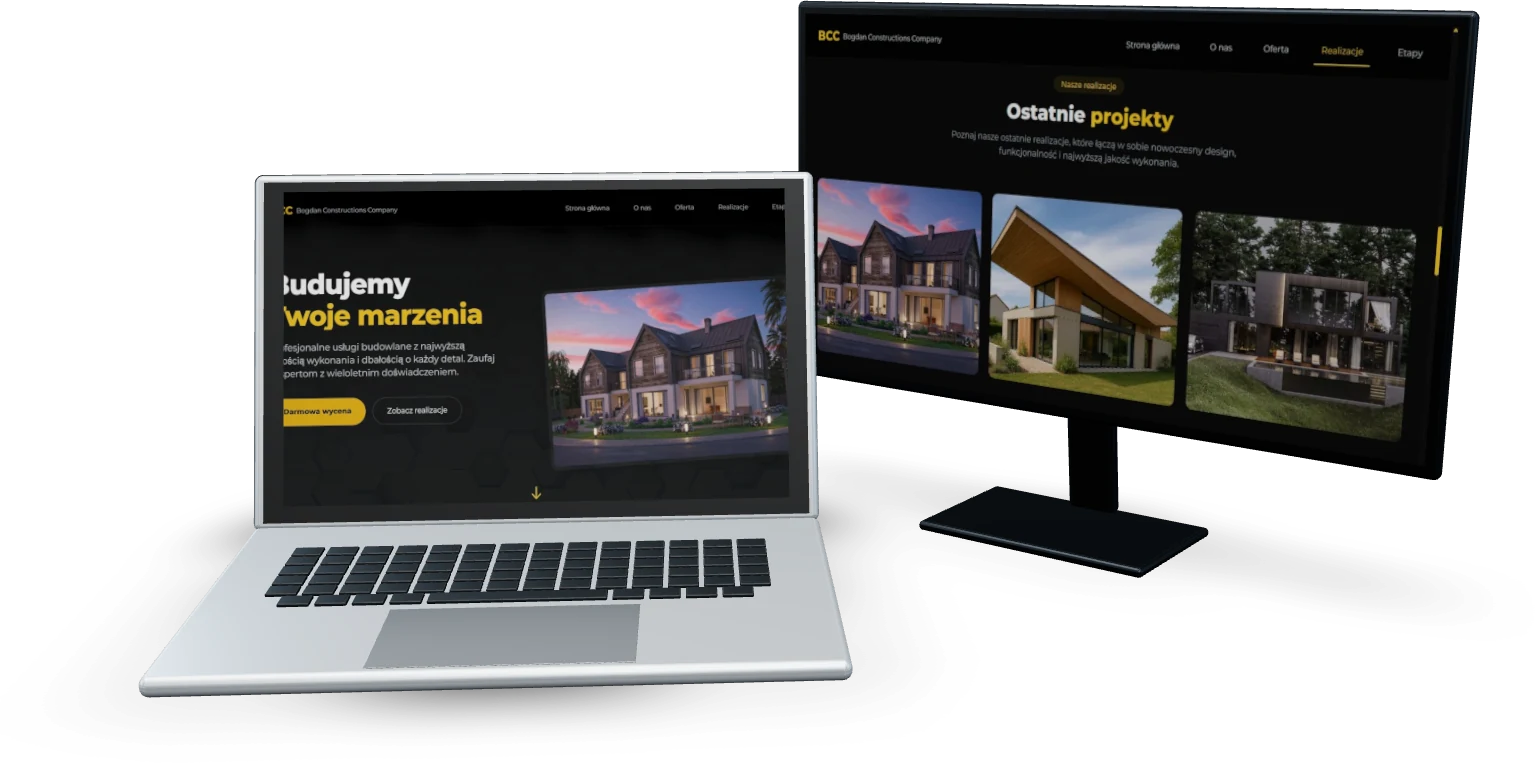
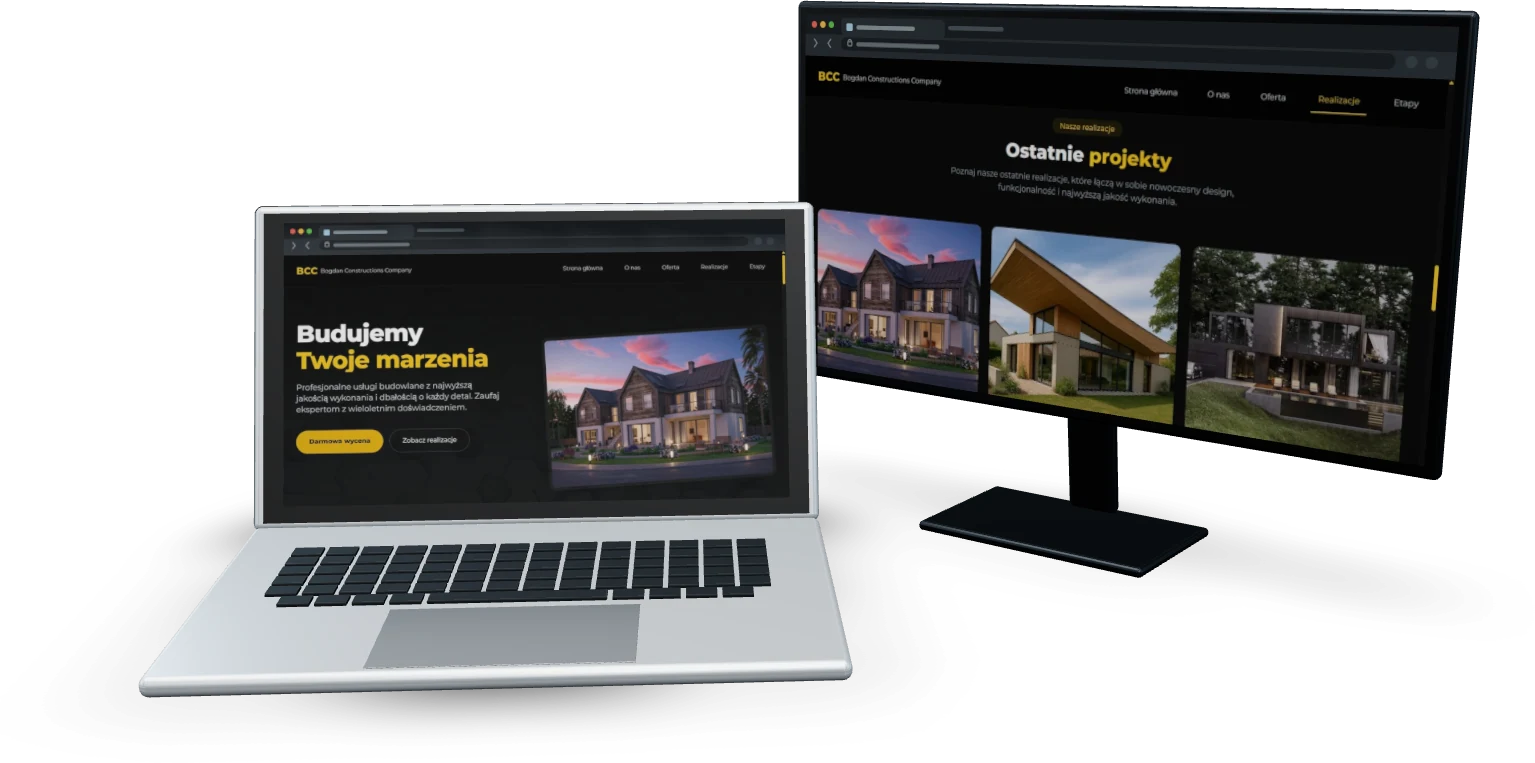
Show full-width screens with browser and window bars on the 3D devices
- Laptop and monitor panels are now 16:9, the screenshots' own shape, and
  every screenshot fills the full width of its screen: nothing is cut from
  the sides and nothing is stretched. Very wide banners are skipped when
  choosing mockup screens.
- Each screen gets a neutral browser toolbar (websites and web apps) or a
  Windows title bar (desktop programs); the page continues under it, which
  also hides the Next.js dev badge some original screenshots carried.
- Keyboard keys are one instanced mesh instead of ~80 meshes.
- Hero screens power on as the lid opens; each product kind brings a short
  camera move and a slight turn of the monitor.
- All hero, service and project mockups re-rendered.
- minimatch override raised to 11.0.1 (fixes the ReDoS advisory in the
  lint toolchain); npm audit now reports no vulnerabilities.

Changed region(s): [[0.1531, 0.0, 0.9492, 0.6632], [0.1837, 0.7235, 0.3062, 0.7837], [0.3674, 0.7536, 0.4287, 0.7837]]

diff --git a/src/components/portfolio/three/Devices.tsx b/src/components/portfolio/three/Devices.tsx
@@ -1,12 +1,14 @@
 "use client";
-import { forwardRef, useMemo } from "react";
+import { forwardRef, useEffect, useLayoutEffect, useMemo, useRef } from "react";
+import { RoundedBoxGeometry } from "three/examples/jsm/geometries/RoundedBoxGeometry.js";
 import { RoundedBox } from "@react-three/drei";
 import type { ThreeElements } from "@react-three/fiber";
-import type { Group, Texture } from "three";
+import { Matrix4, Quaternion, Vector3, type Group, type InstancedMesh, type Texture } from "three";
 import { coverFit, ScreenMaterial, ScreenMaterialImpl, type ScreenMaterialType } from "./ScreenMaterial";
+import { CHROME_HEIGHT, chromeTexture, type ChromeKind } from "./chrome";
 
-/* Shared dimensions (scene units ≈ decimetres): a 16:10 laptop panel and a 16:9 monitor. */
-export const LAPTOP_SCREEN = { width: 3.04, height: 1.9 };
+/* Shared dimensions (scene units ≈ decimetres). Both panels are 16:9, like the screenshots. */
+export const LAPTOP_SCREEN = { width: 3.04, height: 1.71 };
 export const MONITOR_SCREEN = { width: 4.16, height: 2.34 };
 
 const ALUMINIUM = { color: "#cdd2d6", metalness: 0.62, roughness: 0.36, envMapIntensity: 1.4 };
@@ -14,9 +16,9 @@ const GRAPHITE = { color: "#2c3237", metalness: 0.85, roughness: 0.34, envMapInt
 const BEZEL = { color: "#060708", metalness: 0.1, roughness: 0.45 };
 const KEY = { color: "#1b1f22", metalness: 0.15, roughness: 0.6 };
 
-/** 6 rows of keys, with a wide space bar, laid out on the deck. */
+/** 6 rows of keys with a wide space bar, drawn as one instanced mesh (one draw call). */
 function Keyboard({ width }: { width: number }) {
-  const keys = useMemo(() => {
+  const { keys, depth } = useMemo(() => {
     const list: Array<{ x: number; z: number; w: number }> = [];
     const columns = 14, gap = 0.028;
     const key = (width - 0.34 - gap * (columns - 1)) / columns;
@@ -30,13 +32,22 @@ function Keyboard({ width }: { width: number }) {
       }
       for (let c = 0; c < columns; c++) list.push({ x: -(width - 0.34) / 2 + key / 2 + c * (key + gap), z, w: key });
     }
-    return { list, depth: key * 0.78 };
+    return { keys: list, depth: key * 0.78 };
   }, [width]);
-  return <group position={[0, 0.112, 0]}>
-    {keys.list.map((k, i) => <RoundedBox key={i} args={[k.w, 0.02, keys.depth]} radius={0.008} smoothness={2} position={[k.x, 0.006, k.z]}>
-      <meshStandardMaterial {...KEY} />
-    </RoundedBox>)}
-  </group>;
+  const geometry = useMemo(() => new RoundedBoxGeometry(1, 0.02, depth, 2, 0.008), [depth]);
+  const mesh = useRef<InstancedMesh>(null);
+  useLayoutEffect(() => {
+    if (!mesh.current) return;
+    const matrix = new Matrix4();
+    const rotation = new Quaternion();
+    // The shared geometry is 1 unit wide; each instance scales it to its key width.
+    keys.forEach((k, i) => mesh.current!.setMatrixAt(i, matrix.compose(new Vector3(k.x, 0.006, k.z), rotation, new Vector3(k.w, 1, 1))));
+    mesh.current.instanceMatrix.needsUpdate = true;
+  }, [keys]);
+  useEffect(() => () => geometry.dispose(), [geometry]);
+  return <instancedMesh ref={mesh} args={[geometry, undefined, keys.length]} position={[0, 0.112, 0]}>
+    <meshStandardMaterial {...KEY} />
+  </instancedMesh>;
 }
 
 export interface ScreenProps {
@@ -44,16 +55,29 @@ export interface ScreenProps {
   height: number;
   textureA: Texture;
   textureB?: Texture;
+  /** Browser toolbar or Windows title bar above the page. */
+  chrome?: ChromeKind;
   materialRef?: React.Ref<ScreenMaterialType>;
 }
 
-/** The lit panel plus a thin glossy cover that picks up studio reflections. */
-export function Screen({ width, height, textureA, textureB, materialRef }: ScreenProps) {
-  const fitA = useMemo(() => coverFit(textureA, width / height), [textureA, width, height]);
-  const fitB = useMemo(() => coverFit(textureB ?? textureA, width / height), [textureA, textureB, width, height]);
+/** Aspect of the page area under the chrome; screenshots are fitted into it. */
+export const pageAspect = (width: number, height: number, chrome: ChromeKind = "browser") => width / (height * (1 - CHROME_HEIGHT[chrome]));
+
+/** The lit panel (chrome bar + page) plus a thin glossy cover that picks up studio reflections. */
+export function Screen({ width, height, textureA, textureB, chrome = "browser", materialRef }: ScreenProps) {
+  const bar = height * CHROME_HEIGHT[chrome];
+  const page = height - bar;
+  const aspect = pageAspect(width, height, chrome);
+  const fitA = useMemo(() => coverFit(textureA, aspect), [textureA, aspect]);
+  const fitB = useMemo(() => coverFit(textureB ?? textureA, aspect), [textureA, textureB, aspect]);
+  const chromeMap = useMemo(() => chromeTexture(chrome), [chrome]);
   return <group>
-    <mesh>
-      <planeGeometry args={[width, height]} />
+    <mesh position={[0, height / 2 - bar / 2, 0]}>
+      <planeGeometry args={[width, bar]} />
+      <meshBasicMaterial map={chromeMap} toneMapped={false} />
+    </mesh>
+    <mesh position={[0, -bar / 2, 0]}>
+      <planeGeometry args={[width, page]} />
       <ScreenMaterial ref={materialRef} key={ScreenMaterialImpl.key} uMapA={textureA} uMapB={textureB ?? textureA} uRepeatA={fitA.repeat} uOffsetA={fitA.offset} uRepeatB={fitB.repeat} uOffsetB={fitB.offset} toneMapped={false} />
     </mesh>
     <mesh position={[0, 0, 0.004]}>

diff --git a/src/components/portfolio/three/HeroCanvas.tsx b/src/components/portfolio/three/HeroCanvas.tsx
@@ -2,21 +2,23 @@
 import { Component, Suspense, useEffect, useMemo, useRef, useState, type ReactNode } from "react";
 import { Canvas, useFrame, useThree } from "@react-three/fiber";
 import { useTexture } from "@react-three/drei";
-import { MathUtils, type Group, type Texture } from "three";
+import { MathUtils, Vector3, type Group, type Texture } from "three";
 import DeskComposition from "./DeskComposition";
 import Studio from "./Studio";
 import { coverFit, prepareScreenTexture, type ScreenMaterialType } from "./ScreenMaterial";
-import { LAPTOP_SCREEN, MONITOR_SCREEN } from "./Devices";
+import { LAPTOP_SCREEN, MONITOR_SCREEN, pageAspect } from "./Devices";
+import type { ChromeKind } from "./chrome";
 
-export interface HeroKindScreens { laptop: string; monitor: string }
+export interface HeroKindScreens { laptop: string; monitor: string; chrome: ChromeKind }
 
 /** Per-kind pose: a slow turn of the whole desk so each change of product reads as a new shot. */
 const POSES = [
-  { turn: -0.04, lift: 0 },
-  { turn: 0.1, lift: 0.06 },
-  { turn: -0.14, lift: 0.03 },
-  { turn: 0.05, lift: 0.08 },
-];
+  { turn: -0.04, lift: 0, monitor: -0.28, camera: [3.4, 3.4, 8.6] },
+  { turn: 0.1, lift: 0.06, monitor: -0.36, camera: [2.6, 3.0, 8.9] },
+  { turn: -0.14, lift: 0.03, monitor: -0.2, camera: [3.9, 3.7, 8.3] },
+  { turn: 0.05, lift: 0.08, monitor: -0.32, camera: [3.0, 2.9, 8.7] },
+] as const;
+const LOOK_AT = new Vector3(0.4, 1.3, -0.35);
 const LID_OPEN = -0.28;
 const LID_CLOSED = -Math.PI / 2 - 0.02;
 
@@ -75,12 +77,28 @@ function Desk({ kinds, phase, onReady }: { kinds: HeroKindScreens[]; phase: numb
       root.current.position.y = Math.sin(state.clock.elapsedTime * 0.6) * 0.04 + (1 - eased) * -0.6;
     }
     if (lid.current) lid.current.rotation.x = MathUtils.lerp(LID_CLOSED, LID_OPEN, MathUtils.smoothstep(intro.current, 0.15, 1));
-    if (monitor.current) monitor.current.position.y = MathUtils.damp(monitor.current.position.y, pose.lift, 4, delta);
-    stepWipe(laptopScreen.current, laptopWipe.current, laptopTextures, target.current, LAPTOP_SCREEN.width / LAPTOP_SCREEN.height, delta);
-    stepWipe(monitorScreen.current, monitorWipe.current, monitorTextures, target.current, MONITOR_SCREEN.width / MONITOR_SCREEN.height, delta);
+    if (monitor.current) {
+      monitor.current.position.y = MathUtils.damp(monitor.current.position.y, pose.lift, 4, delta);
+      monitor.current.rotation.y = MathUtils.damp(monitor.current.rotation.y, pose.monitor, 3, delta);
+    }
+    // A short dolly to a new angle for every kind of product.
+    const camera = state.camera;
+    camera.position.set(
+      MathUtils.damp(camera.position.x, pose.camera[0], 1.8, delta),
+      MathUtils.damp(camera.position.y, pose.camera[1], 1.8, delta),
+      MathUtils.damp(camera.position.z, pose.camera[2], 1.8, delta),
+    );
+    camera.lookAt(LOOK_AT);
+    // Screens power on once the lid is nearly open.
+    const power = MathUtils.smoothstep(intro.current, 0.55, 1);
+    if (laptopScreen.current) laptopScreen.current.uPower = power;
+    if (monitorScreen.current) monitorScreen.current.uPower = Math.min(1, power * 1.2);
+    const chrome = kinds[target.current]?.chrome ?? "browser";
+    stepWipe(laptopScreen.current, laptopWipe.current, laptopTextures, target.current, pageAspect(LAPTOP_SCREEN.width, LAPTOP_SCREEN.height, chrome), delta);
+    stepWipe(monitorScreen.current, monitorWipe.current, monitorTextures, target.current, pageAspect(MONITOR_SCREEN.width, MONITOR_SCREEN.height, chrome), delta);
   });
 
-  return <DeskComposition screens={{ laptopA: laptopTextures[first], monitorA: monitorTextures[first] }} rootRef={root} lidRef={lid} monitorRef={monitor} laptopScreenRef={laptopScreen} monitorScreenRef={monitorScreen} />;
+  return <DeskComposition chrome={kinds[phase]?.chrome ?? "browser"} screens={{ laptopA: laptopTextures[first], monitorA: monitorTextures[first] }} rootRef={root} lidRef={lid} monitorRef={monitor} laptopScreenRef={laptopScreen} monitorScreenRef={monitorScreen} />;
 }
 
 class SceneBoundary extends Component<{ fallback: ReactNode; children: ReactNode }, { failed: boolean }> {

diff --git a/src/components/portfolio/three/chrome.ts b/src/components/portfolio/three/chrome.ts
@@ -1,0 +1,56 @@
+import { CanvasTexture, SRGBColorSpace } from "three";
+
+export type ChromeKind = "browser" | "window";
+
+/** Share of the screen height taken by the window chrome. The page below it shows its top part. */
+export const CHROME_HEIGHT: Record<ChromeKind, number> = { browser: 0.115, window: 0.055 };
+
+const cache = new Map<ChromeKind, CanvasTexture>();
+
+/**
+ * Neutral browser or Windows title bar drawn once into a canvas: tabs, address field and
+ * controls, without invented addresses or titles.
+ */
+export function chromeTexture(kind: ChromeKind) {
+  const cached = cache.get(kind);
+  if (cached) return cached;
+  const width = 1600;
+  const height = Math.round(width / (16 / 9) * CHROME_HEIGHT[kind]);
+  const canvas = document.createElement("canvas");
+  canvas.width = width; canvas.height = height;
+  const c = canvas.getContext("2d")!;
+  const box = (x: number, y: number, w: number, h: number, r: number, fill: string) => { c.fillStyle = fill; c.beginPath(); c.roundRect(x, y, w, h, r); c.fill(); };
+
+  if (kind === "browser") {
+    c.fillStyle = "#1b1f23"; c.fillRect(0, 0, width, height);
+    ["#ec6a5e", "#f4bf4f", "#61c554"].forEach((color, i) => { c.fillStyle = color; c.beginPath(); c.arc(28 + i * 26, 26, 8, 0, Math.PI * 2); c.fill(); });
+    // Active tab, merging into the toolbar.
+    box(110, 8, 300, 44, 12, "#2a3036");
+    box(126, 22, 18, 18, 4, "#acd1e8");
+    box(156, 26, 170, 10, 5, "#8d989f");
+    box(420, 22, 150, 10, 5, "#4a545b");
+    c.fillStyle = "#2a3036"; c.fillRect(0, 50, width, height - 50);
+    // Navigation arrows and address field.
+    c.strokeStyle = "#8d989f"; c.lineWidth = 3; c.lineCap = "round";
+    for (const [x, dir] of [[34, -1], [72, 1]] as const) { c.beginPath(); c.moveTo(x + 6 * dir, 62); c.lineTo(x - 2 * dir, 72); c.lineTo(x + 6 * dir, 82); c.stroke(); }
+    box(110, 56, width - 230, 32, 16, "#1b1f23");
+    c.strokeStyle = "#8d989f"; c.lineWidth = 2.5; c.beginPath(); c.roundRect(130, 66, 12, 10, 2); c.stroke(); c.beginPath(); c.arc(136, 66, 5, Math.PI, 0); c.stroke();
+    box(156, 67, 240, 10, 5, "#6c777e");
+    box(width - 100, 60, 24, 24, 12, "#3a434a");
+    box(width - 60, 60, 24, 24, 12, "#3a434a");
+  } else {
+    c.fillStyle = "#1f2a33"; c.fillRect(0, 0, width, height);
+    box(18, height / 2 - 10, 20, 20, 4, "#8de5ce");
+    box(52, height / 2 - 6, 220, 12, 6, "#7b8a94");
+    c.strokeStyle = "#a7b3ba"; c.lineWidth = 2;
+    const y = height / 2;
+    c.beginPath(); c.moveTo(width - 150, y); c.lineTo(width - 134, y); c.stroke();
+    c.strokeRect(width - 96, y - 8, 16, 16);
+    c.beginPath(); c.moveTo(width - 44, y - 8); c.lineTo(width - 28, y + 8); c.moveTo(width - 28, y - 8); c.lineTo(width - 44, y + 8); c.stroke();
+  }
+  const texture = new CanvasTexture(canvas);
+  texture.colorSpace = SRGBColorSpace;
+  texture.anisotropy = 8;
+  cache.set(kind, texture);
+  return texture;
+}

diff --git a/src/app/dev/mockup/page.tsx b/src/app/dev/mockup/page.tsx
@@ -1,5 +1,7 @@
 import type { Metadata } from "next";
 import { notFound } from "next/navigation";
+import { join } from "node:path";
+import sharp from "sharp";
 import { getProjects } from "@/lib/turso";
 import { mockupSources } from "@/lib/project-mockup-sources";
 import { heroKinds as stageKinds } from "@/lib/hero-kinds";
@@ -15,9 +17,15 @@ export const metadata: Metadata = { robots: { index: false, follow: false } };
 export default async function MockupPage({ searchParams }: { searchParams: Promise<{ only?: string }> }) {
   if (process.env.NODE_ENV === "production") notFound();
   const { only } = await searchParams;
-  const heroJobs = stageKinds.map(kind => ({ laptop: kind.laptop, monitor: kind.monitor, out: kind.still.split("/").pop()! }));
-  const projectJobs = mockupSources(await getProjects()).map(source => ({ laptop: source.laptop, monitor: source.monitor, out: `${source.slug}.webp` }));
-  const serviceJobs = Object.entries(serviceShowcase).map(([slug, showcase]) => ({ laptop: showcase.front.src, monitor: showcase.back.src, out: `usluga-${slug}.webp` }));
+  const heroJobs = stageKinds.map(kind => ({ laptop: kind.laptop, monitor: kind.monitor, out: kind.still.split("/").pop()!, chrome: kind.chrome }));
+  const projects = await getProjects();
+  const aspects = new Map<string, number>();
+  for (const src of new Set(projects.flatMap(p => p.images.filter(i => i.startsWith("/projects/"))))) {
+    const { width, height } = await sharp(join(process.cwd(), "public", src)).metadata().catch(() => ({ width: undefined, height: undefined }));
+    if (width && height) aspects.set(src, width / height);
+  }
+  const projectJobs = mockupSources(projects, src => aspects.get(src)).map(source => ({ laptop: source.laptop, monitor: source.monitor, out: `${source.slug}.webp`, chrome: source.chrome }));
+  const serviceJobs = Object.entries(serviceShowcase).map(([slug, showcase]) => ({ laptop: showcase.front.src, monitor: showcase.back.src, out: `usluga-${slug}.webp`, chrome: showcase.front.kind }));
   const jobs = [...heroJobs, ...serviceJobs, ...projectJobs].filter(job => !only || job.out.startsWith(only));
   return <MockupClient jobs={jobs} />;
 }

diff --git a/src/components/portfolio/three/DeskComposition.tsx b/src/components/portfolio/three/DeskComposition.tsx
@@ -3,6 +3,7 @@ import type { Ref } from "react";
 import type { Group, Texture } from "three";
 import { Laptop, Monitor } from "./Devices";
 import type { ScreenMaterialType } from "./ScreenMaterial";
+import type { ChromeKind } from "./chrome";
 
 export interface DeskScreens {
   laptopA: Texture;
@@ -12,8 +13,10 @@ export interface DeskScreens {
 }
 
 /** Monitor behind on the right, laptop in front on the left: two real screens of one project. */
-export default function DeskComposition({ screens, rootRef, laptopRef, lidRef, monitorRef, laptopScreenRef, monitorScreenRef }: {
+export default function DeskComposition({ screens, chrome = "browser", rootRef, laptopRef, lidRef, monitorRef, laptopScreenRef, monitorScreenRef }: {
   screens: DeskScreens;
+  /** Browser bars for websites and web apps, Windows title bars for desktop programs. */
+  chrome?: ChromeKind;
   rootRef?: Ref<Group>;
   laptopRef?: Ref<Group>;
   lidRef?: Ref<Group>;
@@ -22,7 +25,7 @@ export default function DeskComposition({ screens, rootRef, laptopRef, lidRef, m
   monitorScreenRef?: Ref<ScreenMaterialType>;
 }) {
   return <group ref={rootRef}>
-    <Monitor ref={monitorRef} position={[1.35, 0, -1.55]} rotation={[0, -0.28, 0]} screen={{ textureA: screens.monitorA, textureB: screens.monitorB, materialRef: monitorScreenRef }} />
-    <Laptop ref={laptopRef} lidRef={lidRef} position={[-1.15, 0, 0.75]} rotation={[0, 0.42, 0]} screen={{ textureA: screens.laptopA, textureB: screens.laptopB, materialRef: laptopScreenRef }} />
+    <Monitor ref={monitorRef} position={[1.35, 0, -1.55]} rotation={[0, -0.28, 0]} screen={{ textureA: screens.monitorA, textureB: screens.monitorB, chrome, materialRef: monitorScreenRef }} />
+    <Laptop ref={laptopRef} lidRef={lidRef} position={[-1.15, 0, 0.75]} rotation={[0, 0.42, 0]} screen={{ textureA: screens.laptopA, textureB: screens.laptopB, chrome, materialRef: laptopScreenRef }} />
   </group>;
 }

diff --git a/src/lib/hero-kinds.ts b/src/lib/hero-kinds.ts
@@ -1,15 +1,15 @@
 /** One product kind per hero scene: laptop and monitor screens come from published realisations. */
 export const heroKinds = [
-  { id: "site", note: "Strona ofertowa · strona restauracji", still: "/mockups/hero-site.webp",
+  { id: "site", chrome: "browser" as const, note: "Strona ofertowa · strona restauracji", still: "/mockups/hero-site.webp",
     laptop: "/projects/vip-transfery-platforma-premium-transport-solutions/2026-11-vip-glowna.webp",
     monitor: "/projects/zielona-baza-restauracja-weganska-w-rzeszowie/2026-11-zielona-menu.webp" },
-  { id: "shop", note: "Katalog z filtrami · koszyk", still: "/mockups/hero-shop.webp",
+  { id: "shop", chrome: "browser" as const, note: "Katalog z filtrami · koszyk", still: "/mockups/hero-shop.webp",
     laptop: "/projects/lapki-w-ciapki-sklep-zoologiczny/2026-11-lapki-katalog.webp",
     monitor: "/projects/sklep-internetowy-demo/2026-11-sklep-katalog.webp" },
-  { id: "app", note: "Panel produktów · formularz wyceny", still: "/mockups/hero-app.webp",
+  { id: "app", chrome: "browser" as const, note: "Panel produktów · formularz wyceny", still: "/mockups/hero-app.webp",
     laptop: "/projects/solid-print/2026-11-solid-wycena.webp",
     monitor: "/projects/sklep-internetowy-demo/panel-produktow.webp" },
-  { id: "program", note: "C# · .NET · lokalna baza SQLite", still: "/mockups/hero-program.webp",
+  { id: "program", chrome: "window" as const, note: "C# · .NET · lokalna baza SQLite", still: "/mockups/hero-program.webp",
     laptop: "/projects/wardogs-companion/2026-11-wardogs-analiza.webp",
     monitor: "/projects/wardogs-companion/2026-11-wardogs-przeglad.webp" },
 ];

diff --git a/src/components/portfolio/three/ScreenMaterial.ts b/src/components/portfolio/three/ScreenMaterial.ts
@@ -59,21 +59,21 @@ export const ScreenMaterialImpl = shaderMaterial(
 export const ScreenMaterial = extend(ScreenMaterialImpl);
 export type ScreenMaterialType = InstanceType<typeof ScreenMaterialImpl>;
 
-/** Cover-fit a texture into a screen, anchored to the top like a scrolled page. */
-export function coverFit(texture: Texture, screenAspect: number) {
+/**
+ * Fit a screenshot to the full width of its screen area, anchored to the top like a page in a
+ * browser. Nothing is cut from the sides and nothing is stretched; a taller area shows less of
+ * the page bottom, a shorter page continues with its last row.
+ */
+export function coverFit(texture: Texture, areaAspect: number) {
   const image = texture.image as { width?: number; height?: number } | undefined;
   const textureAspect = image?.width && image?.height ? image.width / image.height : 16 / 9;
-  const repeat = new Vector2(1, 1);
-  const offset = new Vector2(0, 0);
-  if (textureAspect > screenAspect) {
-    repeat.x = screenAspect / textureAspect;
-    offset.x = (1 - repeat.x) / 2;
-  } else {
-    repeat.y = textureAspect / screenAspect;
+  const repeat = new Vector2(1, textureAspect / areaAspect);
+  const offset = new Vector2(0, 1 - repeat.y);
+  if (repeat.y > 1) {
+    // A banner-like image shorter than the screen: fill the height and centre it instead of smearing the last row.
+    repeat.set(areaAspect / textureAspect, 1);
+    offset.set((1 - repeat.x) / 2, 0);
   }
-  // Screenshots carry browser/dev chrome in the bottom few percent; keep the top of the page.
-  repeat.y *= 0.94;
-  offset.y = 1 - repeat.y;
   return { repeat, offset };
 }
 

diff --git a/src/lib/project-mockup-sources.ts b/src/lib/project-mockup-sources.ts
@@ -1,10 +1,15 @@
 import type { Project } from "@/types";
+import { projectGroup } from "./project-highlights";
 
-/** Which two real screenshots a project's 3D mockup shows: the laptop gets the first, the monitor the second. */
-export function mockupSources(projects: Project[]) {
+/**
+ * Which two real screenshots a project's 3D mockup shows: the laptop gets the first, the monitor the second.
+ * `aspectOf` lets the caller skip banners and other images that are not screen-shaped.
+ */
+export function mockupSources(projects: Project[], aspectOf: (src: string) => number | undefined = () => undefined) {
+  const screenShaped = (src: string) => { const aspect = aspectOf(src); return aspect === undefined || (aspect >= 1.3 && aspect <= 2.1); };
   return projects.flatMap(project => {
-    const images = project.images.filter(src => src.startsWith("/projects/"));
+    const images = project.images.filter(src => src.startsWith("/projects/") && screenShaped(src));
     if (!project.slug || images.length === 0) return [];
-    return [{ slug: project.slug, laptop: images[0], monitor: images[1] ?? images[0] }];
+    return [{ slug: project.slug, laptop: images[0], monitor: images[1] ?? images[0], chrome: projectGroup(project) === "program" ? "window" as const : "browser" as const }];
   });
 }

diff --git a/src/components/portfolio/three/MockupStage.tsx b/src/components/portfolio/three/MockupStage.tsx
@@ -5,8 +5,9 @@ import { useTexture } from "@react-three/drei";
 import DeskComposition from "./DeskComposition";
 import Studio from "./Studio";
 import { prepareScreenTexture } from "./ScreenMaterial";
+import type { ChromeKind } from "./chrome";
 
-export interface MockupJob { laptop: string; monitor: string; out: string }
+export interface MockupJob { laptop: string; monitor: string; out: string; chrome: ChromeKind }
 
 /** Development-only renderer: draws each job's two screens on the desk and saves a still. */
 function Desk({ job, onReady }: { job: MockupJob; onReady: () => void }) {
@@ -20,7 +21,7 @@ function Desk({ job, onReady }: { job: MockupJob; onReady: () => void }) {
     id = window.setTimeout(tick, 40);
     return () => window.clearTimeout(id);
   }, [advance, onReady]);
-  return <DeskComposition screens={{ laptopA: laptopTexture, monitorA: monitorTexture }} />;
+  return <DeskComposition chrome={job.chrome} screens={{ laptopA: laptopTexture, monitorA: monitorTexture }} />;
 }
 
 export default function MockupStage({ jobs }: { jobs: MockupJob[] }) {

diff --git a/src/components/portfolio/StageVisuals.tsx b/src/components/portfolio/StageVisuals.tsx
@@ -8,7 +8,7 @@ import { heroKinds } from "@/lib/hero-kinds";
 const HeroCanvas = dynamic(() => import("./three/HeroCanvas"), { ssr: false });
 
 export const stageKinds = heroKinds;
-const screens = stageKinds.map(({ laptop, monitor }) => ({ laptop, monitor }));
+const screens = stageKinds.map(({ laptop, monitor, chrome }) => ({ laptop, monitor, chrome }));
 
 let webglSupport: boolean | undefined;
 const detectWebgl = () => {
